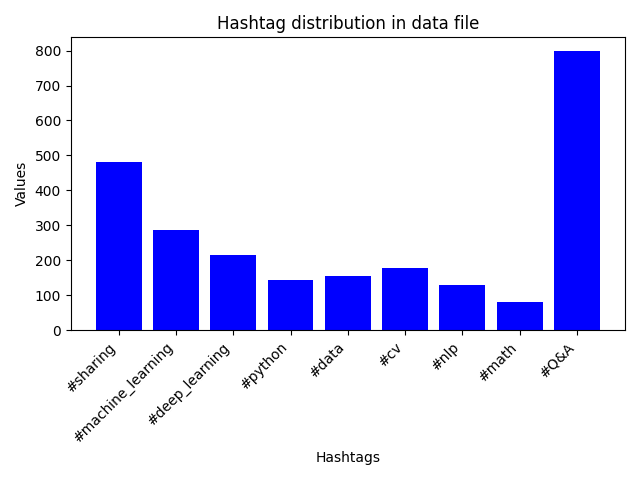
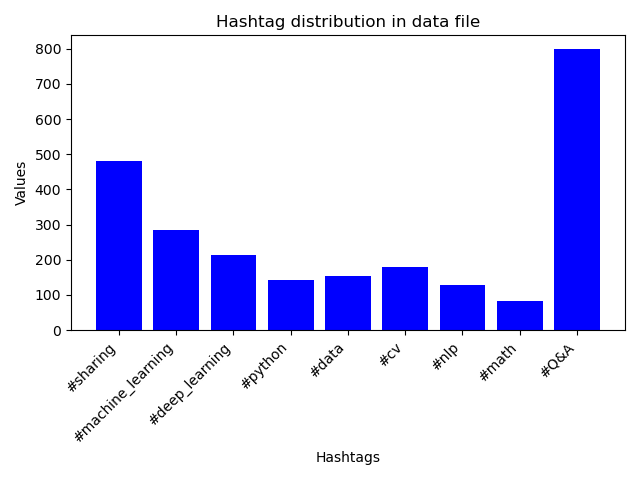
fix statistic data

diff --git a/tools/statistics.py b/tools/statistics.py
@@ -10,41 +10,43 @@ hashtag_dict = {hashtag: 0 for hashtag in list_hashtag}
 hashtag_dict_all = {hashtag: 0 for hashtag in list_hashtag}
 sentence_lengths = []
 for fn in fname:
+    hashtag_dict = {hashtag: 0 for hashtag in list_hashtag}
     df = pd.read_csv(os.path.join('data', fn))
     print(f'{fn} have {len(df["text"])} samples')
-    # for row in df["label"]:
-    #     for i in row[1:-1].strip().split(","):
-    #         i = i.strip()[1:-1]
-    #         hashtag_dict[i] += 1
-    #         hashtag_dict_all[i] += 1
+    for row in df["label"]:
+        for i in row[1:-1].strip().split(","):
+            i = i.strip()[1:-1]
+            hashtag_dict[i] += 1
+            hashtag_dict_all[i] += 1
 
-    # hashtags = list(hashtag_dict.keys())
-    # values = list(hashtag_dict.values())
+    hashtags = list(hashtag_dict.keys())
+    values = list(hashtag_dict.values())
 
-    # Plotting the histogram
-    # plt.bar(hashtags, values, color='blue')
-    # plt.xlabel('Hashtags')
-    # plt.ylabel('Values')
-    # plt.title(f'Hashtag distribution in {fn.split("_")[0]} file')
-    # plt.xticks(rotation=45, ha='right')  # Rotating x-axis labels for better readability
-    # plt.tight_layout()    for sentence in df['text']:
-# #         sentence_lengths.append(len(sentence.split()))
-# #
-# # plt.hist(sentence_lengths, bins=50, color='blue', edgecolor='black')
-# # plt.title('Distribution of Sentence Lengths')
-# # plt.xlabel('Length of Sentences')
-# # plt.ylabel('Frequency')
-# # plt.tight_layout()
-# # plt.savefig(f"statistic_results/distribution_length_data.png")
-    # plt.savefig(f"statistic_results/hashtag_counts_{fn.split('_')[0]}.png")
+    #Plotting the histogram
+    plt.bar(hashtags, values, color='blue')
+    plt.xlabel('Hashtags')
+    plt.ylabel('Values')
+    plt.title(f'Hashtag distribution in {fn.split("_")[0]} file')
+    plt.xticks(rotation=45, ha='right')  # Rotating x-axis labels for better readability
+    plt.tight_layout()
+    # for sentence in df['text']:
+#         sentence_lengths.append(len(sentence.split()))
 #
-# hashtags_all = list(hashtag_dict_all.keys())
-# values_all = list(hashtag_dict_all.values())
-# plt.bar(hashtags_all, values_all, color='blue')
-# plt.xlabel('Hashtags')
-# plt.ylabel('Values')
-# plt.title(f'Hashtag distribution in data file')
-# plt.xticks(rotation=45, ha='right')  # Rotating x-axis labels for better readability
+# plt.hist(sentence_lengths, bins=50, color='blue', edgecolor='black')
+# plt.title('Distribution of Sentence Lengths')
+# plt.xlabel('Length of Sentences')
+# plt.ylabel('Frequency')
 # plt.tight_layout()
-# plt.savefig(f"statistic_results/hashtag_counts_all.png")
+# plt.savefig(f"statistic_results/distribution_length_data.png")
+    plt.savefig(f"statistic_results/hashtag_counts_{fn.split('_')[0]}.png")
+#
+hashtags_all = list(hashtag_dict_all.keys())
+values_all = list(hashtag_dict_all.values())
+plt.bar(hashtags_all, values_all, color='blue')
+plt.xlabel('Hashtags')
+plt.ylabel('Values')
+plt.title(f'Hashtag distribution in data file')
+plt.xticks(rotation=45, ha='right')  # Rotating x-axis labels for better readability
+plt.tight_layout()
+plt.savefig(f"statistic_results/hashtag_counts_all.png")
 

diff --git a/tools/statistics_hashtags.py b/tools/statistics_hashtags.py
@@ -1,0 +1,45 @@
+import os.path
+import numpy as np
+import matplotlib.pyplot as plt
+import pandas as pd
+
+fname = ['p_mlcoban.csv', 'p_dsmlvietnam.csv']
+
+bar_width = 0.35  # Width of the bars
+index = np.arange(len(fname))  # X-axis positions for the bars
+
+fig, ax = plt.subplots()
+
+for i, fn in enumerate(fname):
+    df = pd.read_csv(os.path.join('data/process_data', fn))
+
+    # Count null and non-null values
+    null_count = df["old_hastag"].isnull().sum()
+    non_null_count = len(df["old_hastag"]) - null_count
+    total_count = len(df["old_hastag"])
+
+    # Calculate percentages
+    null_percentage = (null_count / total_count) * 100
+    non_null_percentage = (non_null_count / total_count) * 100
+
+    # Plot grouped bars
+    ax.bar(index[i] - bar_width / 2, null_percentage, bar_width, label=f'{fn} - Non-Hashtag', color='red')
+    ax.bar(index[i] + bar_width / 2, non_null_percentage, bar_width, label=f'{fn} - Hashtag', color='green')
+
+    # Annotate percentages on top of the bars
+    ax.text(index[i] - bar_width / 2, null_percentage + 1, f'{null_percentage:.2f}%', ha='center', va='bottom', color='black')
+    ax.text(index[i] + bar_width / 2, non_null_percentage + 1, f'{non_null_percentage:.2f}%', ha='center', va='bottom', color='black')
+
+ax.set_title('Histogram for Hashtag and Non-Hashtag Values')
+ax.set_xlabel('File')
+ax.set_ylabel('Percentage (%)')
+ax.set_xticks(index)
+ax.set_xticklabels(fname)
+ax.legend()
+
+# Save the combined histogram as a PNG file
+save_path = os.path.join('statistic_results', 'combined_histogram_percentage.png')
+plt.savefig(save_path)
+
+# Show the combined histogram
+plt.show()
